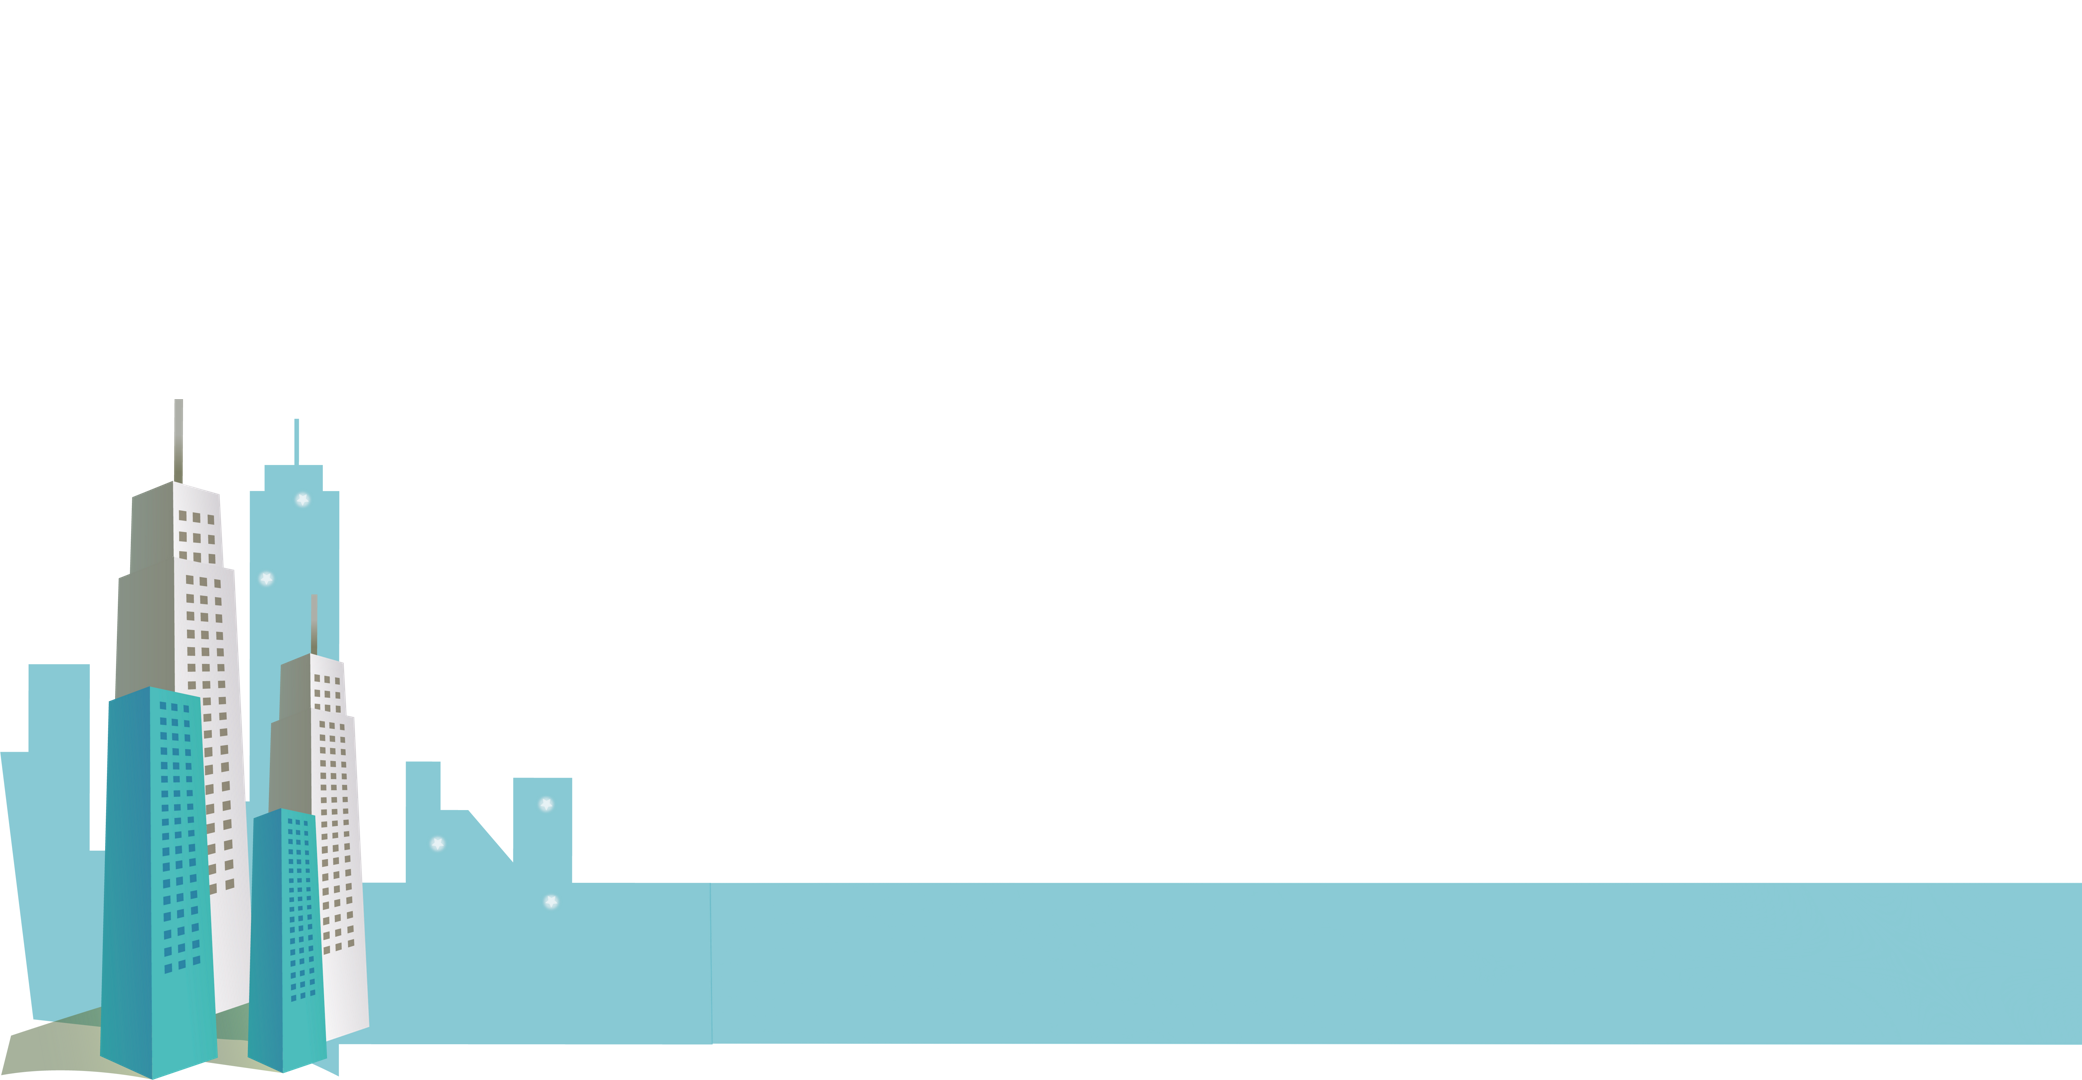
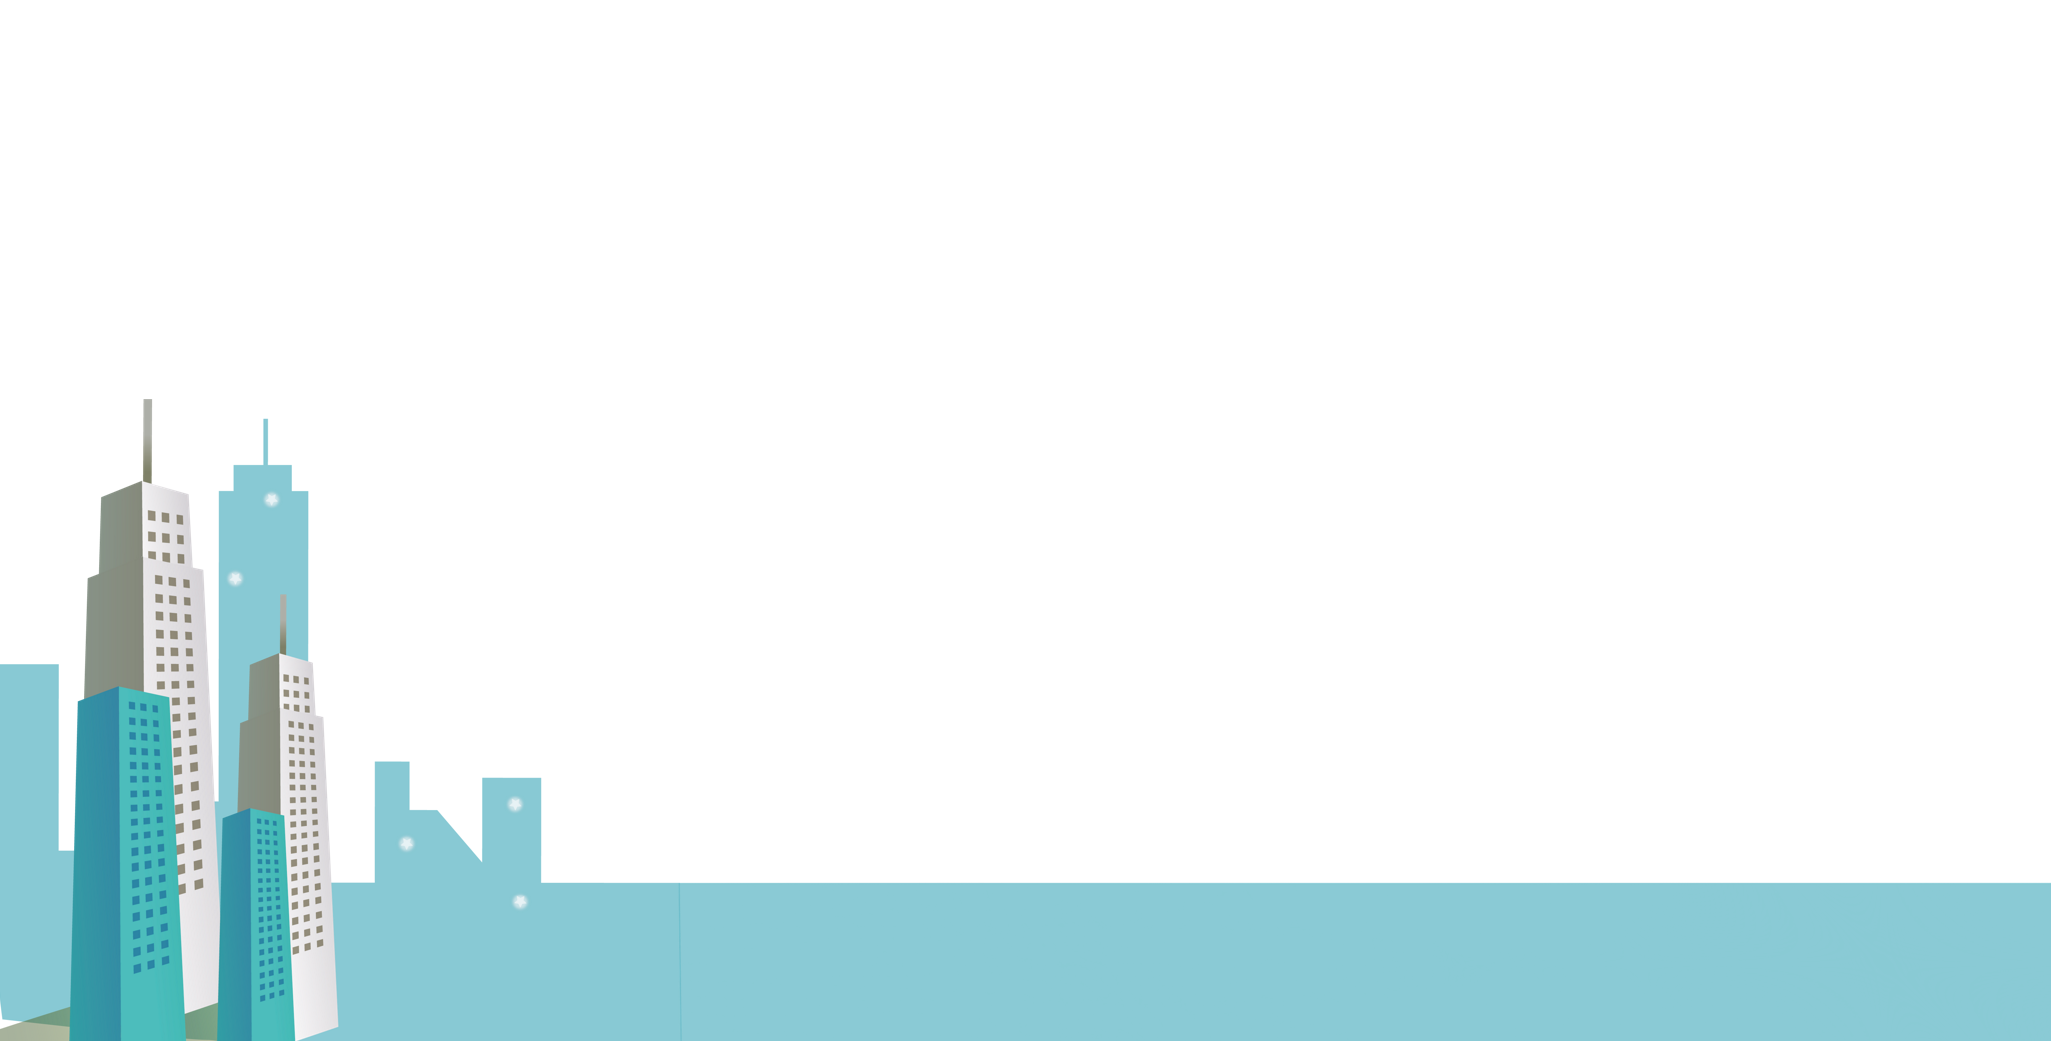
Se agregaron estilos al componente template. Falta agregar una etiqueta <a> para ir hacia atrás en caso de que corresponda

Changed region(s): [[0.0, 0.3689, 1.0, 1.0]]

diff --git a/src/app/components/template/template.component.html b/src/app/components/template/template.component.html
@@ -1,8 +1,12 @@
-<html>
-  <body>
-    <img src="../../../assets/img/ciudad2.png" alt="" />
-    <div id="form-container">
-      <router-outlet></router-outlet>
-    </div>
-  </body>
-</html>
+<div id="container">
+  <div id="form-container">
+    <router-outlet></router-outlet>
+  </div>
+  <img
+    src="../../../assets/img/ciudad2.png"
+    alt="Ciudad"
+    width="1365"
+    height="625"
+    id="city-background-image"
+  />
+</div>

diff --git a/src/styles.css b/src/styles.css
@@ -1,4 +1,9 @@
 /* You can add global styles to this file, and also import other style files */
-<link href="https://fonts.googleapis.com/icon?family=Material+Icons” rel=”stylesheet">
-html, body { height: 100%;}
-body { margin: 0; font-family: Roboto, "Helvetica Neue", sans-serif; }
+html,
+body {
+  height: 100%;
+}
+body {
+  margin: 0;
+  font-family: Roboto, "Helvetica Neue", sans-serif;
+}

diff --git a/src/index.html b/src/index.html
@@ -5,7 +5,7 @@
     <title>Foodtrucks</title>
     <base href="/" />
     <meta name="viewport" content="width=device-width, initial-scale=1" />
-    <link rel="icon" type="image/x-icon" href="favicon.ico" />
+    <link rel="shortcut icon" href="../assets/img/logo.png" />
     <link
       href="https://fonts.googleapis.com/css?family=Roboto:300,400,500&display=swap"
       rel="stylesheet"

diff --git a/src/app/components/template/template.component.css b/src/app/components/template/template.component.css
@@ -1,0 +1,21 @@
+#container {
+  position: relative;
+  height: 100%;
+  background-color: #cceef0;
+  display: grid;
+  z-index: 0;
+}
+
+#city-background-image {
+  position: relative;
+  z-index: 1;
+}
+
+#form-container {
+  z-index: 2;
+  position: absolute;
+  width: 70%;
+  height: 85%;
+  left: 15%;
+  top: 5%;
+}

diff --git a/src/app/app-routing/app-routing.module.ts b/src/app/app-routing/app-routing.module.ts
@@ -7,7 +7,7 @@ import { TemplateComponent } from '../components/template/template.component';
 
 const appRoutes: Routes = [
   { path: 'new/', component: TemplateComponent, children: [] },
-  { path: 'login', component: LoginComponent },
+  { path: 'login', component: TemplateComponent },
 ];
 
 @NgModule({

diff --git a/src/app/app.component.html b/src/app/app.component.html
@@ -1,7 +1,1 @@
-<html lang="en">
-  <head>
-    <meta charset="utf-8" />
-    <link rel="shortcut icon" href="../assets/img/logo.png" />
-  </head>
-  <router-outlet></router-outlet>
-</html>
+<router-outlet></router-outlet>
